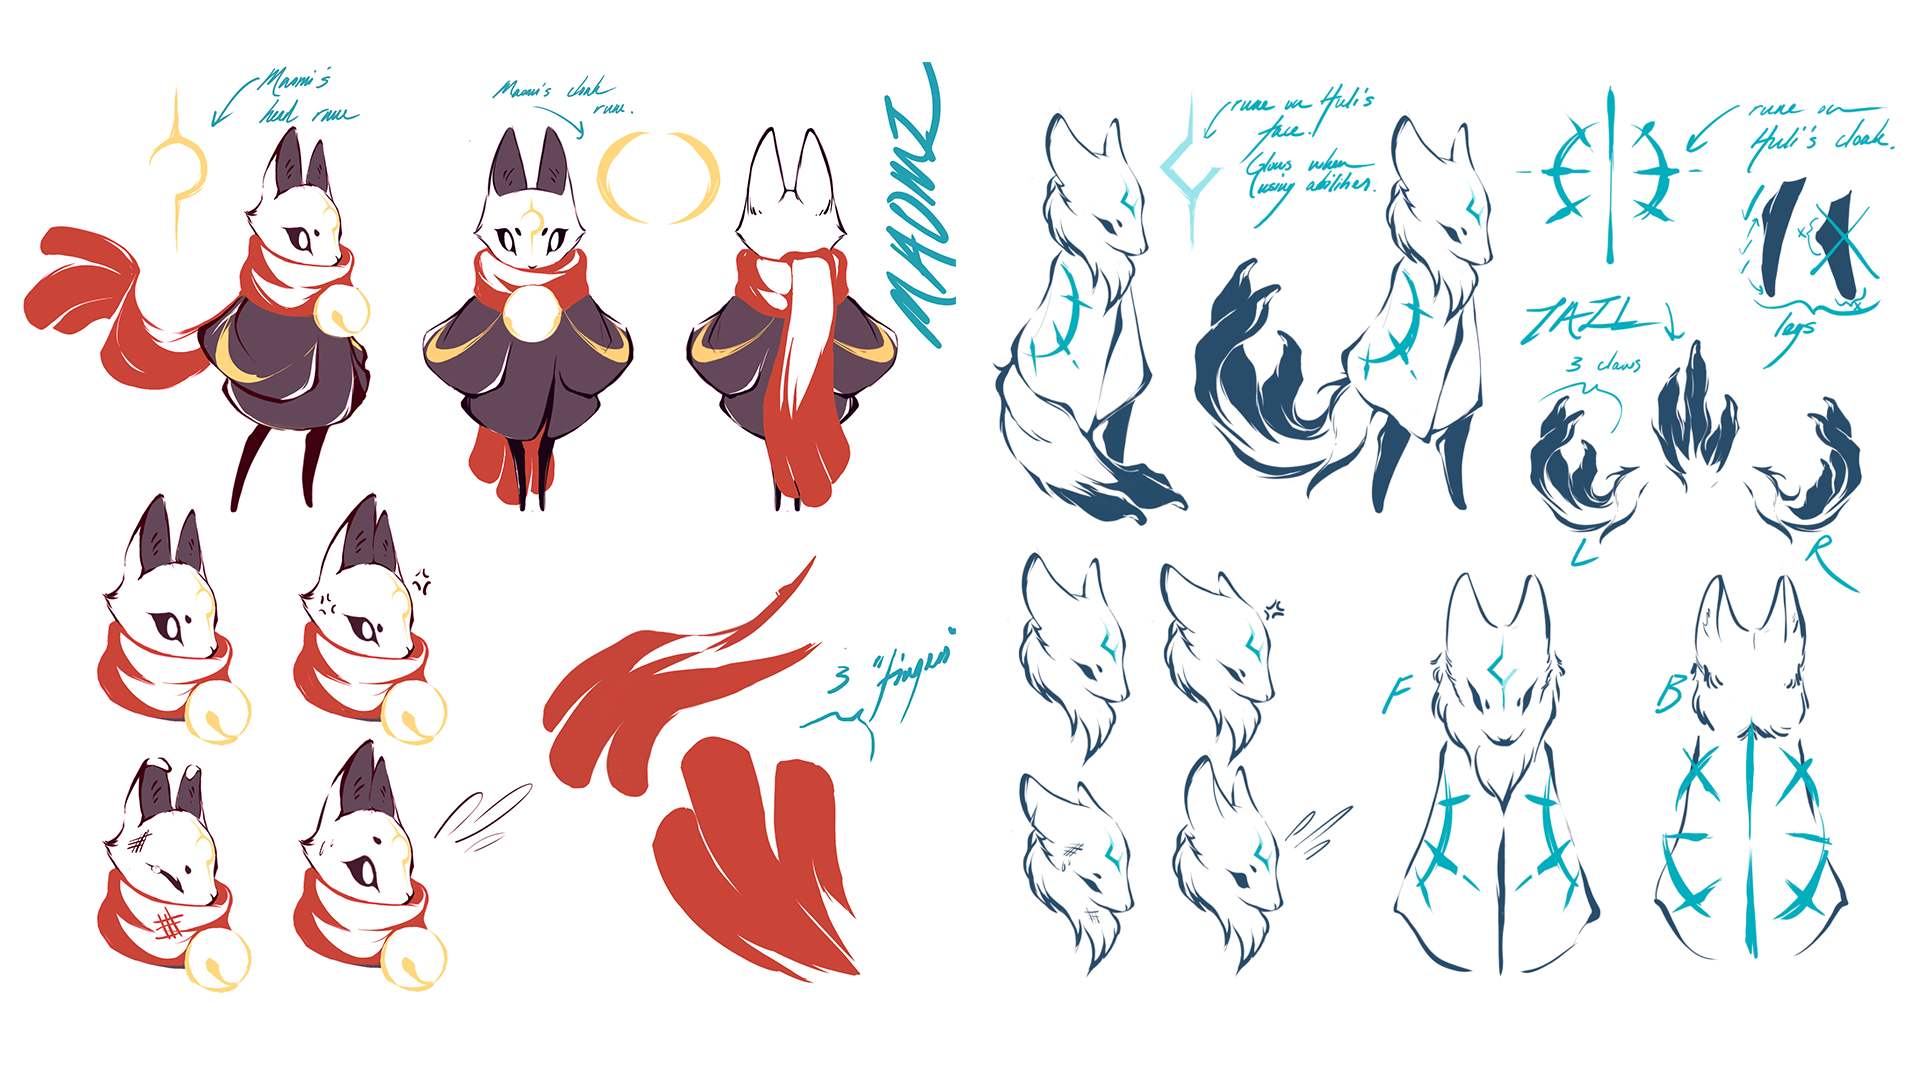
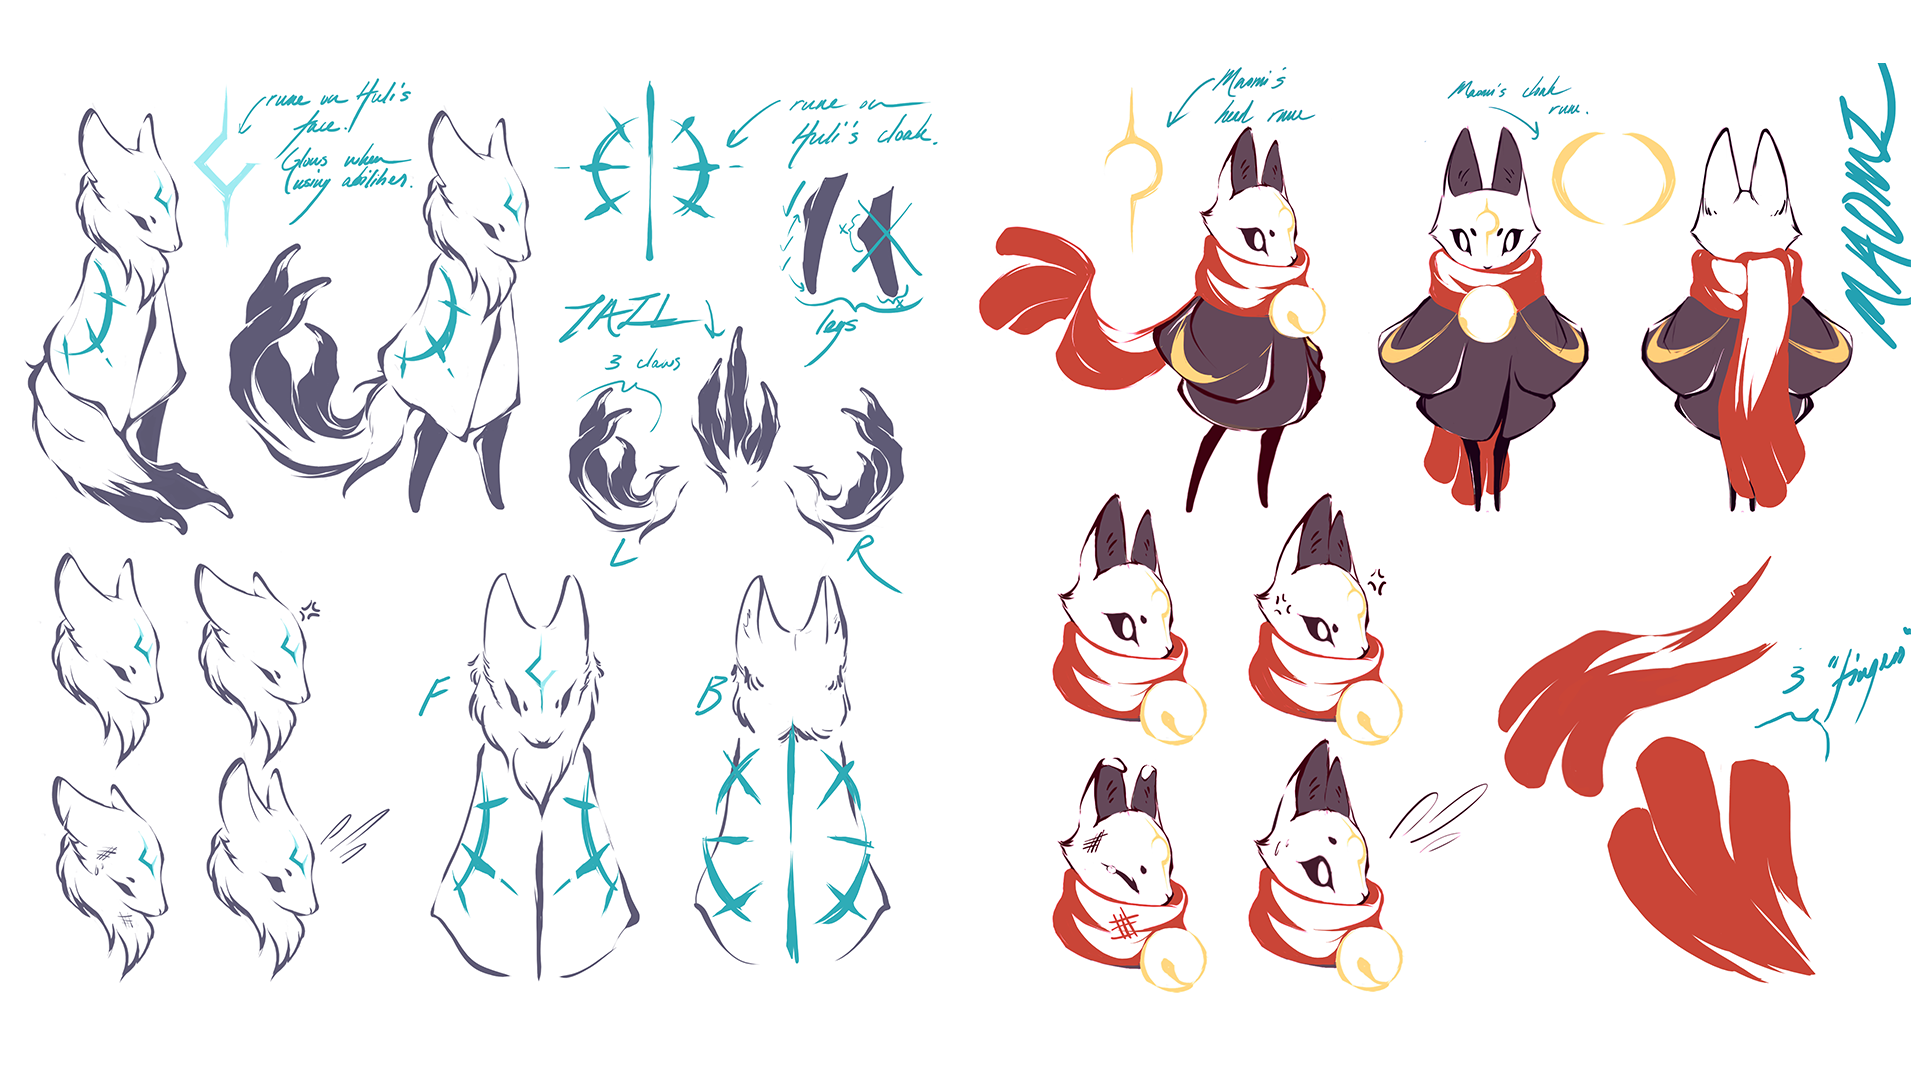
Replacing copy and switching  image order

Changed region(s): [[0.0, 0.0611, 1.0, 0.9167]]

diff --git a/gallery.html b/gallery.html
@@ -71,19 +71,19 @@
             <div class="gallery clear">
               <div
                 class="bg"
-                style="background-image: url(img/gallery-img01.png)"
-              ></div>
-              <div
-                class="bg"
                 style="background-image: url(img/gallery-img02.png)"
               ></div>
               <div
                 class="bg"
-                style="background-image: url(img/gallery-img03.png)"
+                style="background-image: url(img/gallery-img01.png)"
               ></div>
               <div
                 class="bg"
                 style="background-image: url(img/gallery-img04.png)"
+              ></div>
+              <div
+                class="bg"
+                style="background-image: url(img/gallery-img03.png)"
               ></div>
               <div
                 class="bg"
@@ -95,15 +95,15 @@
               ></div>
               <div
                 class="bg"
-                style="background-image: url(img/gallery-img07.png)"
-              ></div>
-              <div
-                class="bg"
                 style="background-image: url(img/gallery-img08.png)"
               ></div>
               <div
                 class="bg"
                 style="background-image: url(img/gallery-img09.png)"
+              ></div>
+              <div
+                class="bg"
+                style="background-image: url(img/gallery-img07.png)"
               ></div>
               <!-- <div
                 class="bg"

diff --git a/index.html b/index.html
@@ -82,14 +82,12 @@
               <div class="main-2">
                 <h3>Explore Their Enchanted World</h3>
                 <p>
-                  When a mysterious force threatens the harmony of their world,
-                  Huli and Maomi rush to drive the darkness away. Inspired by
-                  the charm of indie games and the engaging structure of puzzle
-                  platformers, Huli follows the aftermath of Huli and Maomi’s
-                  momentous sacrifice to preserve the sanctity of their world.
-                  Using the last of Maomi's power, Huli enters a series of
-                  forgotten places to recover the scattered fragments of their
-                  fallen companion and restore balance to the spirit world.
+                  In a long-forgotten place, two ethereal entities named Huli and Maomi 
+                  maintain the celestial balance of the spirit world. When a mysterious 
+                  dark force threatens that balance, they spring into action and defeat 
+                  the darkness at great personal cost. Join Huli and Maomi as they 
+                  traverse eight lush, hand-drawn landscapes and try to reunite with 
+                  each other after being tragically separated.
                 </p>
               </div>
             </div>
